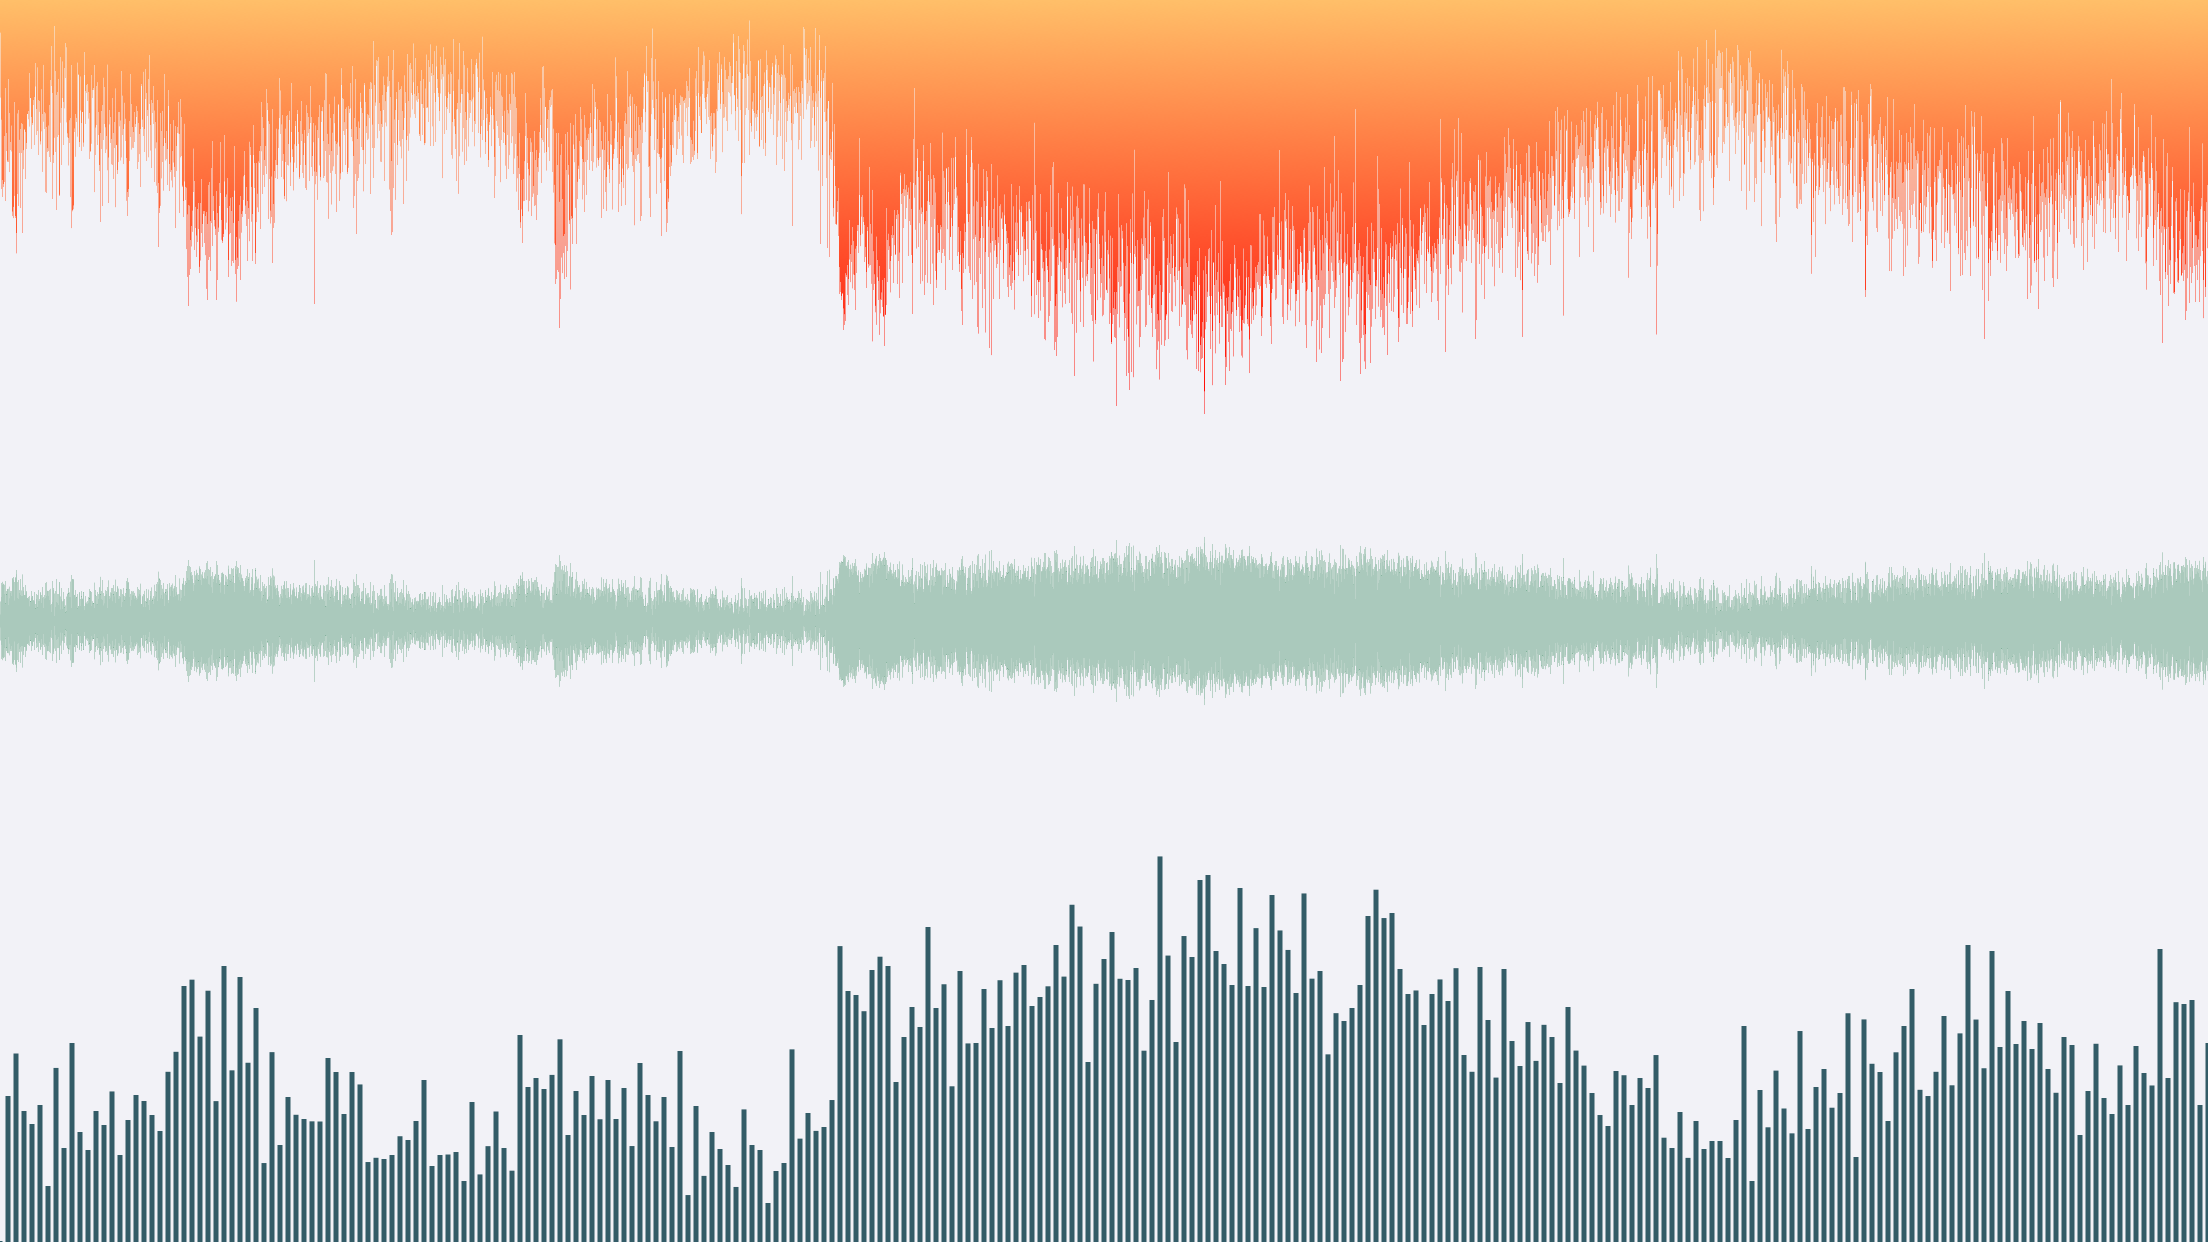
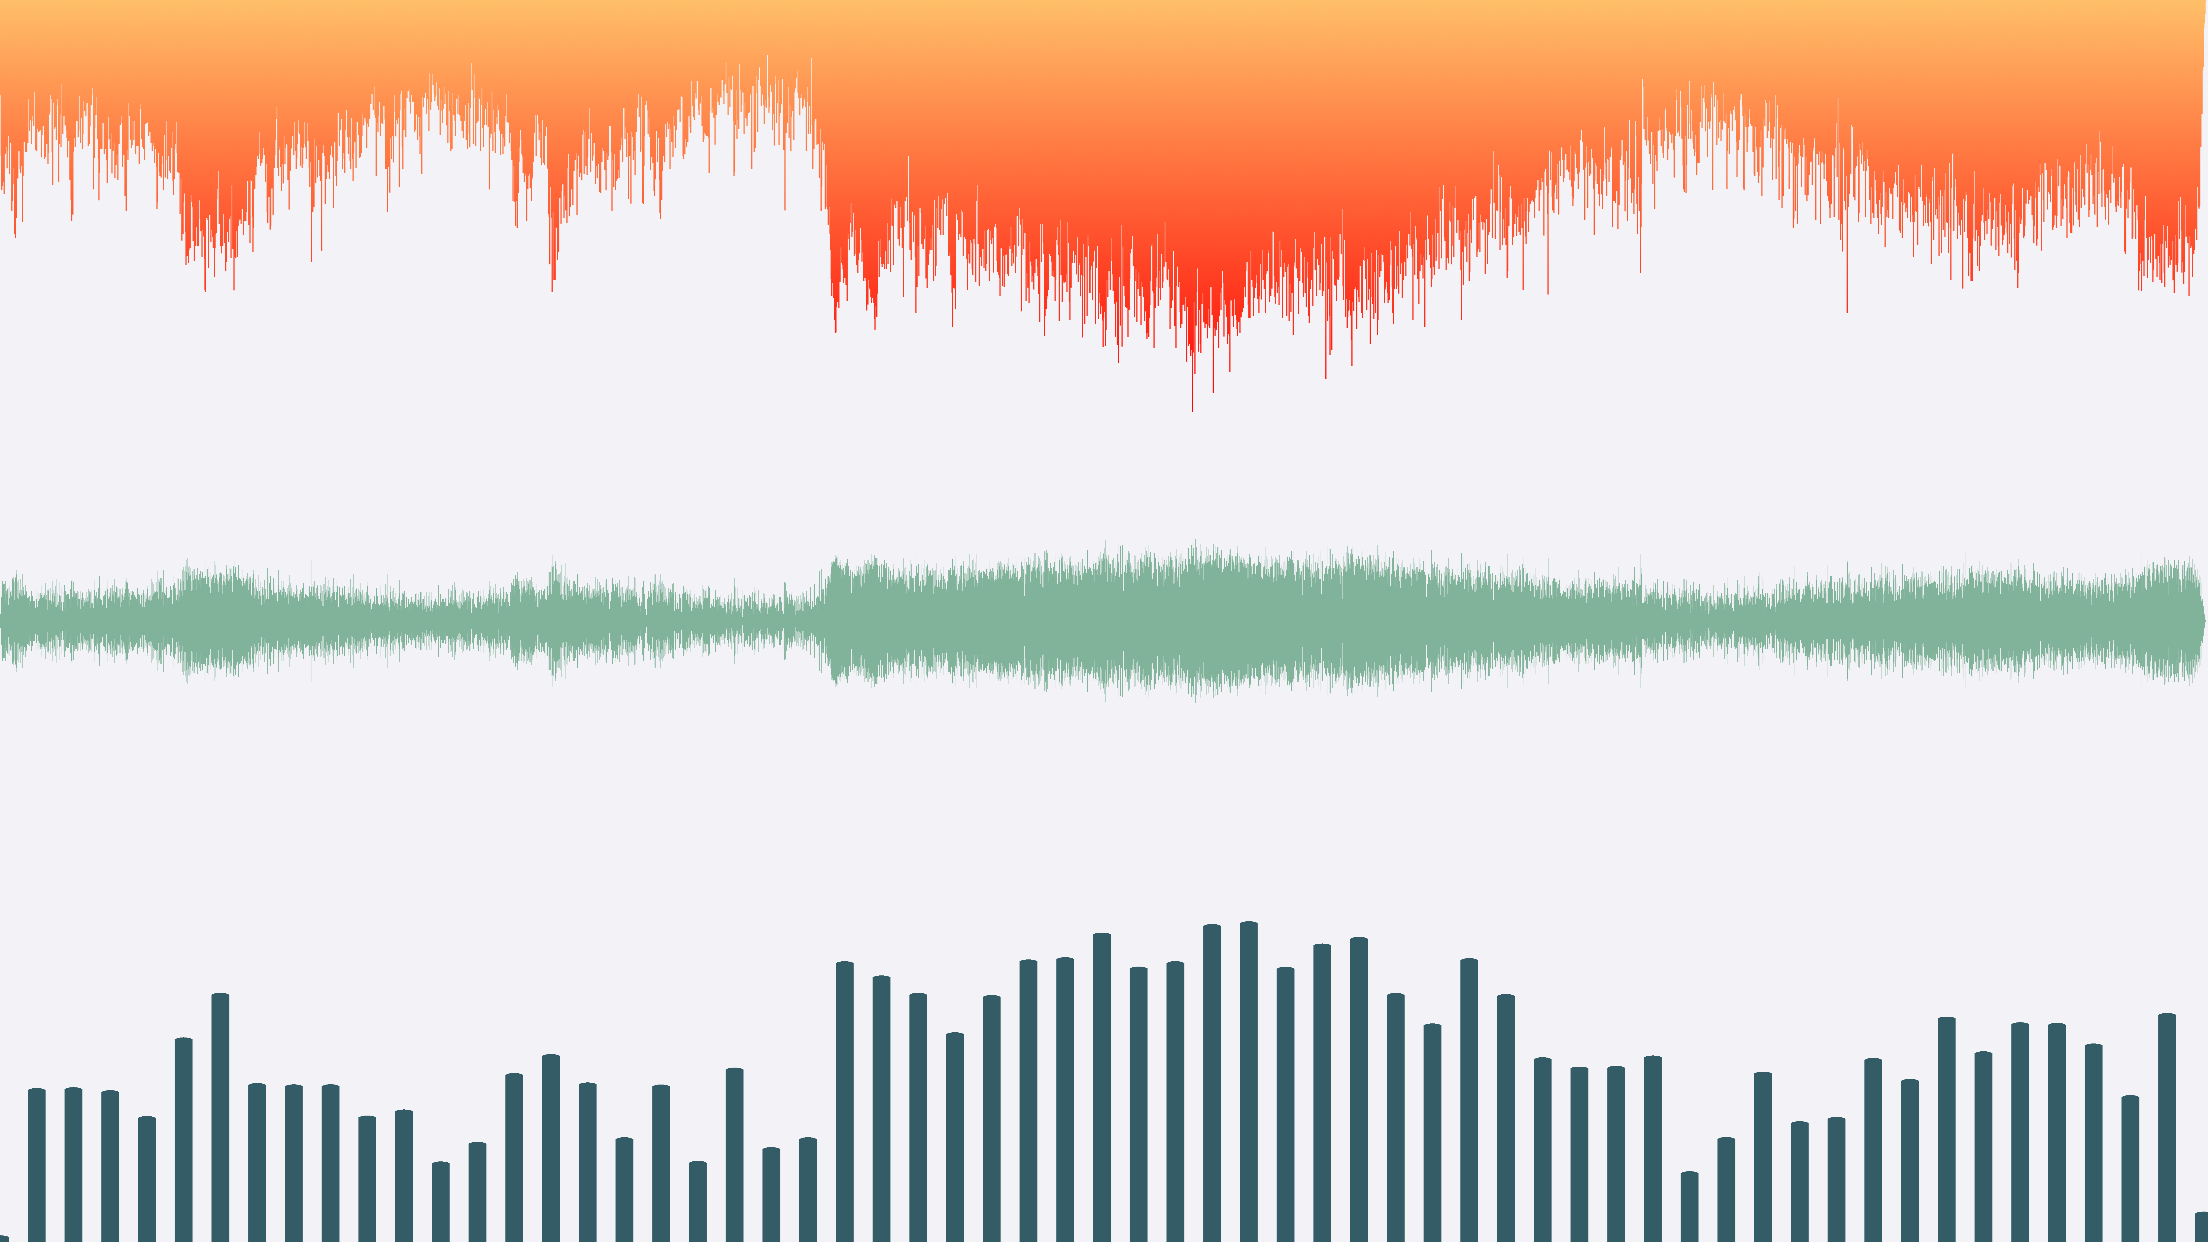
update README

Changed region(s): [[0.0, 0.7037, 1.0, 1.0], [0.0, 0.0306, 1.0, 0.306], [0.0, 0.4283, 1.0, 0.5813]]

diff --git a/DSWaveformImageExample/RecordingViewController.swift b/DSWaveformImageExample/RecordingViewController.swift
@@ -5,12 +5,10 @@ import DSWaveformImage
 
 class RecordingViewController: UIViewController {
     @IBOutlet weak var recordButton: UIButton!
-    @IBOutlet weak var waveformView: WaveformSampleView!
+    @IBOutlet weak var waveformView: WaveformLiveView!
 
     private let audioManager: SCAudioManager!
     private let imageDrawer: WaveformImageDrawer!
-
-    private var amplitudes: [Float] = []
 
     required init?(coder: NSCoder) {
         audioManager = SCAudioManager()
@@ -32,7 +30,7 @@ class RecordingViewController: UIViewController {
             audioManager.stopRecording()
             recordButton.setTitle("Start Recording", for: .normal)
         } else {
-            amplitudes = []
+            waveformView.reset()
             audioManager.startRecording()
             recordButton.setTitle("Stop Recording", for: .normal)
         }
@@ -53,7 +51,6 @@ extension RecordingViewController: RecordingDelegate {
     func audioManager(_ manager: SCAudioManager!, didUpdateRecordProgress progress: CGFloat) {
         print("current power: \(manager.lastAveragePower()) dB")
         let linear = 1 - pow(10, manager.lastAveragePower() / 20)
-        amplitudes.append(linear)
-        waveformView.samples = amplitudes
+        waveformView.samples.append(linear)
     }
 }

diff --git a/README.md b/README.md
@@ -4,11 +4,14 @@ DSWaveformImage
 [![Swift Package Manager compatible](https://img.shields.io/badge/spm-compatible-brightgreen.svg?style=flat)](https://swift.org/package-manager)
 
 
-DSWaveformImage offers a few interfaces with the main purpose of drawing the
-envelope waveform of audio files in iOS. To do so, you can use
-`WaveformImageDrawer` or `WaveformImageView`.
+DSWaveformImage offers a few interfaces for the purpose of drawing the
+envelope waveform of audio data in iOS. To do so, you can use
 
-Additionally, you can get a waveform's (normalized) samples directly as well by
+* `WaveformImageDrawer` to generate a waveform `UIImage` from an audio file
+* `WaveformImageView` to render a static waveform from an audio file or 
+* `WaveformLiveView` to realtime render a waveform of live audio data (e.g. from `AVAudioRecorder`)
+
+Additionally, you can get a waveform's (normalized) `[Float]` samples directly as well by
 creating an instance of `WaveformAnalyzer`.
 
 More related iOS Controls
@@ -22,7 +25,7 @@ You may also find the following iOS controls written in Swift interesting:
 Installation
 ------------
 
-* use SPM: add `https://github.com/dmrschmidt/DSWaveformImage` and set "Up to Next Major" with "8.1.0"
+* use SPM: add `https://github.com/dmrschmidt/DSWaveformImage` and set "Up to Next Major" with "8.2.0"
 * use carthage: `github "dmrschmidt/DSWaveformImage" ~> 7.0`
 * simply copy the `DSWaveformImage` folder directly into your project.
 * or, sunset since 6.1.1: ~~use cocoapods: `pod 'DSWaveformImage', '~> 6.1'`~~
@@ -32,7 +35,7 @@ Usage
 
 Calculations are always performed and returned on a background thread, so make sure to return to the main thread before doing any UI work.
 
-To create a `UIImage` using `WaveformImageDrawer`:
+### To create a `UIImage` using `WaveformImageDrawer`:
 
 ```swift
 let waveformImageDrawer = WaveformImageDrawer()
@@ -48,7 +51,7 @@ waveformImageDrawer.waveformImage(fromAudioAt: audioURL,
 }
 ```
 
-To create a `WaveformImageView` (`UIImageView` subclass):
+### To create a `WaveformImageView` (`UIImageView` subclass):
 
 ```swift
 let audioURL = Bundle.main.url(forResource: "example_sound", withExtension: "m4a")!
@@ -56,7 +59,24 @@ waveformImageView = WaveformImageView(frame: CGRect(x: 0, y: 0, width: 500, heig
 waveformImageView.waveformAudioURL = audioURL
 ```
 
-And finally, to get an audio file's waveform samples:
+### To get render realtime waveform data from [0,1] normalized samples:
+
+Find a full example in the [sample project's RecordingViewController](https://github.com/dmrschmidt/DSWaveformImage/blob/main/DSWaveformImageExample/RecordingViewController.swift).
+
+```swift
+let waveformView = WaveformLiveView()
+
+// configure and start AVAudioRecorder
+let recorder = AVAudioRecorder()
+recorder.isMeteringEnabled = true // required to get current power levels
+
+// after all the other recording (omitted for focus) setup, periodically (every 20ms or so):
+recorder.updateMeters() // gets the current value
+let currentAmplitude = 1 - pow(10, recorder.averagePower(forChannel: 0) / 20)
+waveformView.samples.append(currentAmplitude)
+```
+
+### And finally, to get an audio file's waveform samples:
 
 ```swift
 let audioURL = Bundle.main.url(forResource: "example_sound", withExtension: "m4a")!
@@ -68,7 +88,9 @@ waveformAnalyzer.samples(count: 200) { samples in
 
 ### Playback Indication
 
-If you're playing back audio files and would like to indicate the playback progress to your users, you can [find inspiration in this ticket](https://github.com/dmrschmidt/DSWaveformImage/issues/21). There's various other ways of course, depending on your use case and design.
+If you're playing back audio files and would like to indicate the playback progress to your users, you can [find inspiration in this ticket](https://github.com/dmrschmidt/DSWaveformImage/issues/21).
+There's various other ways of course, depending on your use case and design. Using `WaveformLiveView` may be another one in conjunction with `AVAudioPlayer` (note that `AVPlayer` does *not* offer
+the same simple access to its audio metering data, so is not as suitable out of the box).
 
 ### Loading remote audio files from URL
 